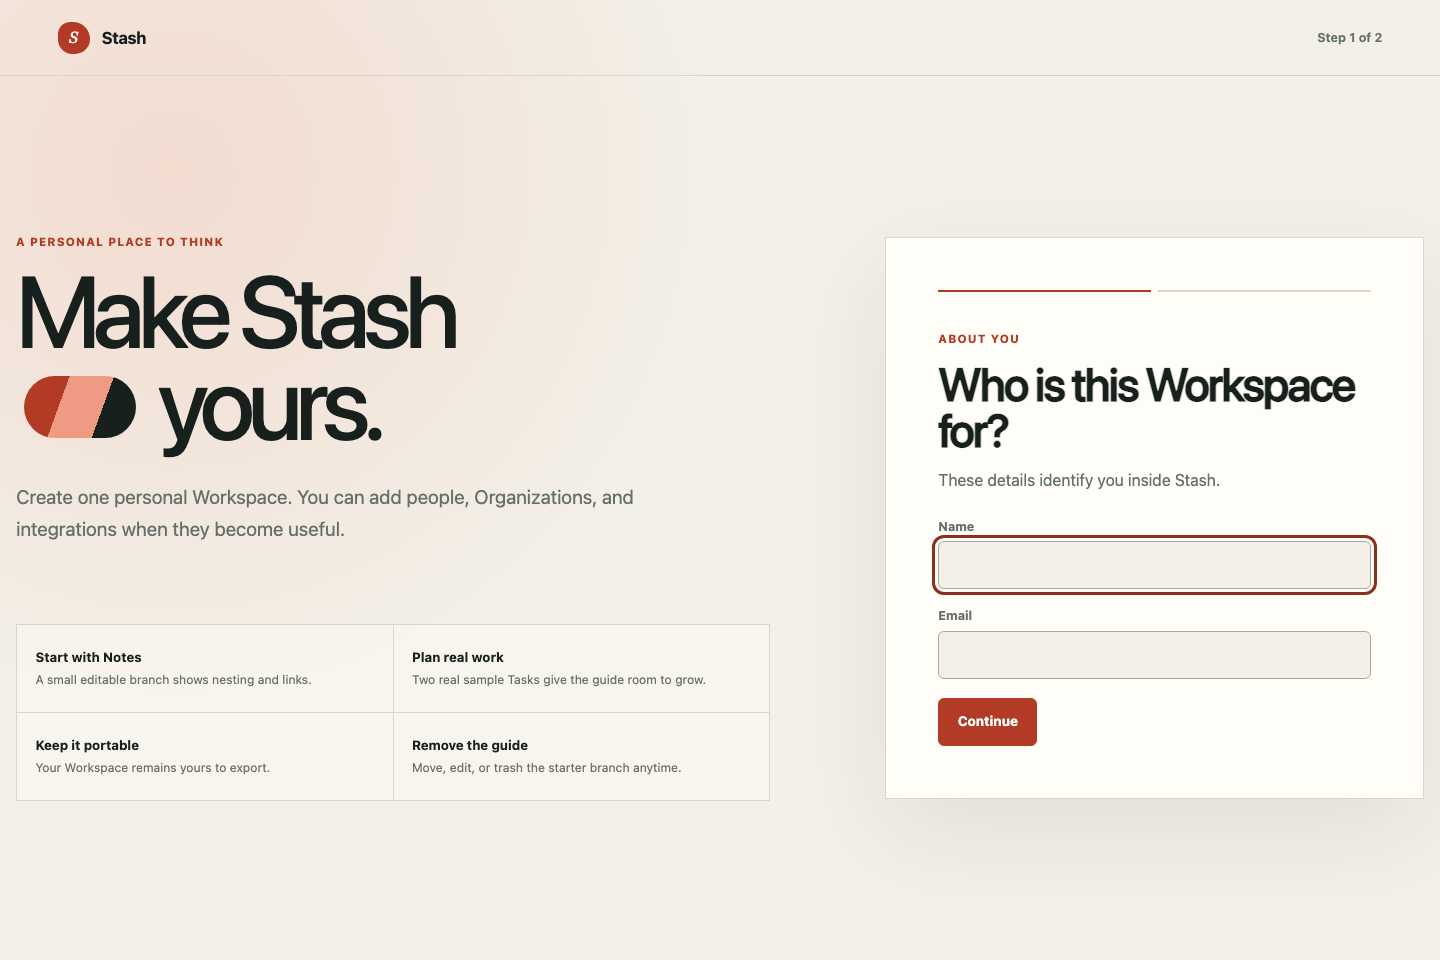
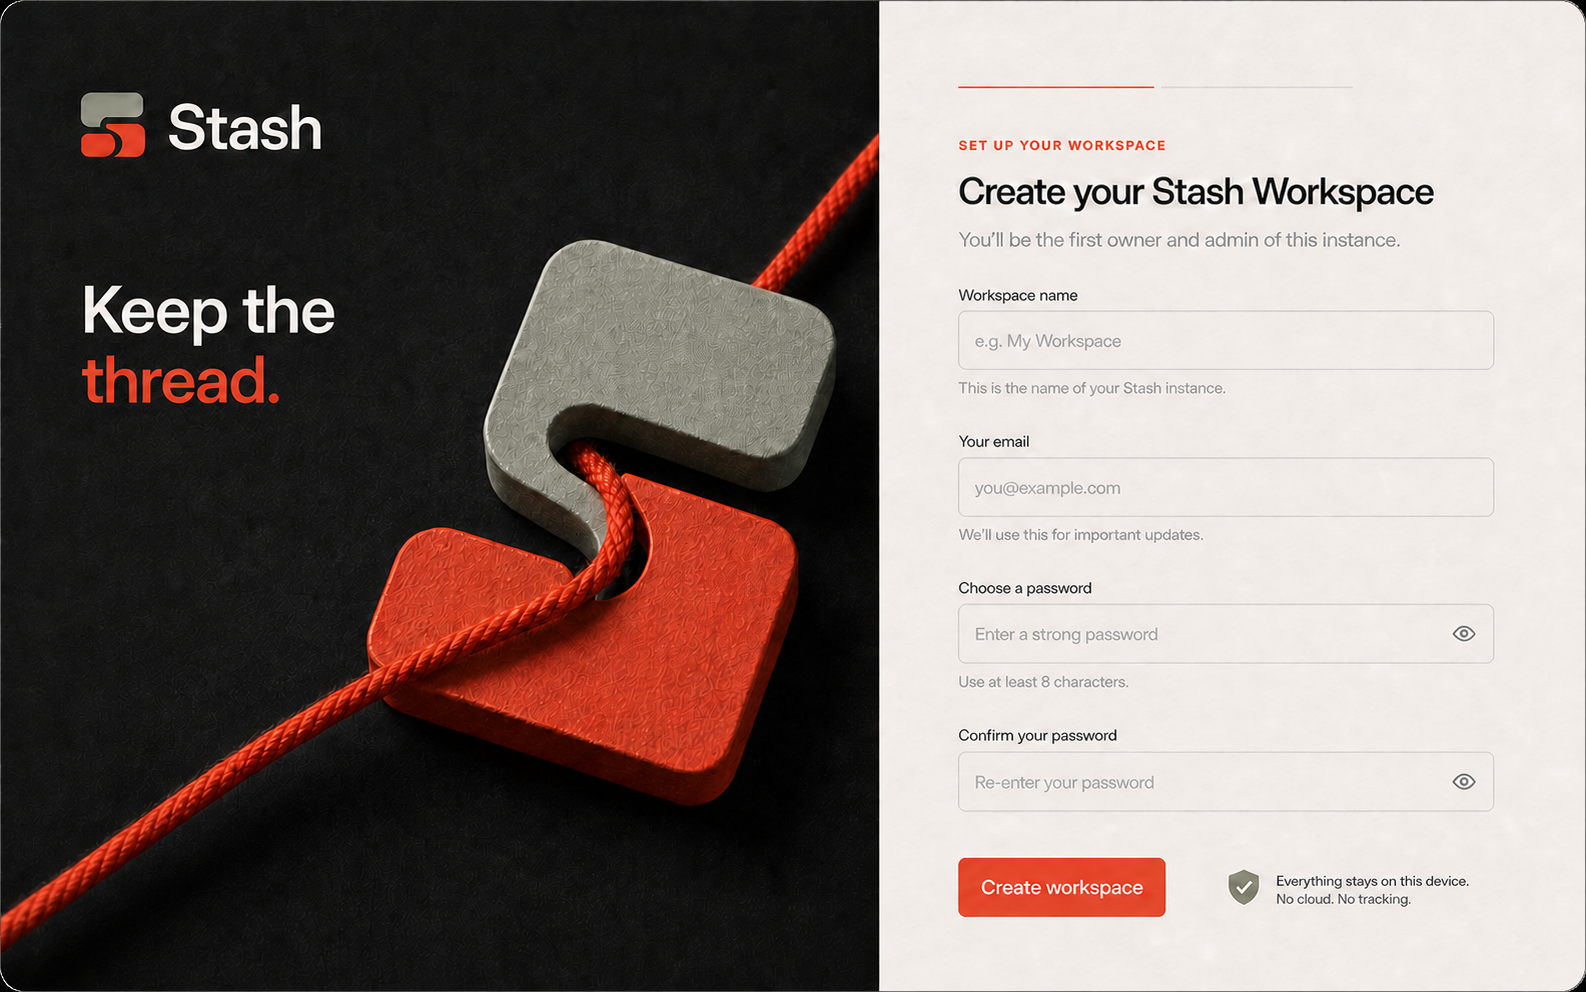
feat(web): redesign first-run setup

diff --git a/apps/web/src/identity-access/setup-page.module.css b/apps/web/src/identity-access/setup-page.module.css
@@ -1,40 +1,60 @@
-.page { min-height: 100dvh; overflow-x: hidden; color: var(--stash-color-ink); background:
-  radial-gradient(circle at 12% 18%, color-mix(in srgb, var(--stash-color-accent-soft) 24%, transparent), transparent 34rem),
-  var(--stash-color-canvas); font-family: var(--stash-font-sans); }
-.navigation { min-height: 4.75rem; display: flex; align-items: center; gap: .75rem; padding: 0 clamp(1.25rem, 4vw, 4rem); border-bottom: 1px solid var(--stash-border-subtle); }
-.navigation > strong { font-size: 1.05rem; letter-spacing: -.025em; }
-.navigation > span:last-child { margin-left: auto; color: var(--stash-color-muted); font-size: .78rem; font-weight: 650; }
-.brandMark { display: grid; width: 2rem; height: 2rem; place-items: center; color: var(--stash-color-accent-contrast); background: var(--stash-color-accent); border-radius: 42% 58% 51% 49%; font-family: Georgia, serif; font-style: italic; }
-.layout { width: min(100% - 2rem, 88rem); min-height: calc(100dvh - 4.75rem); margin: 0 auto; display: grid; grid-template-columns: minmax(0, 1.05fr) minmax(22rem, .75fr); align-items: center; gap: clamp(3rem, 8vw, 9rem); padding: clamp(4rem, 9vw, 9rem) 0; }
-.introduction { align-self: center; }
-.eyebrow, .stepName { margin: 0 0 1rem; color: var(--stash-color-accent); font-size: .72rem; font-weight: 780; letter-spacing: .1em; text-transform: uppercase; }
-.introduction h1 { max-width: 44rem; margin: 0; font: 480 clamp(3.5rem, 7vw, 7rem)/.92 var(--stash-font-display); letter-spacing: -.065em; text-wrap: balance; }
-.inlineImage { width: clamp(3.5rem, 8vw, 7rem); height: .62em; display: inline-block; margin: 0 .08em; overflow: hidden; vertical-align: .02em; border-radius: 999px; background:
-  linear-gradient(110deg, var(--stash-color-accent) 0 34%, var(--stash-color-accent-soft) 34% 67%, var(--stash-color-sidebar) 67%); }
-.lede { max-width: 42rem; margin: 2rem 0 0; color: var(--stash-color-muted); font-size: clamp(1rem, 1.7vw, 1.2rem); line-height: 1.65; }
-.assuranceGrid { margin-top: clamp(3rem, 6vw, 5rem); display: grid; grid-template-columns: repeat(2, minmax(0, 1fr)); grid-template-rows: repeat(2, minmax(5.5rem, auto)); grid-auto-flow: dense; border-top: 1px solid var(--stash-border-subtle); border-left: 1px solid var(--stash-border-subtle); }
-.assurance { min-height: 5.5rem; display: grid; align-content: center; gap: .35rem; padding: 1rem 1.15rem; border-right: 1px solid var(--stash-border-subtle); border-bottom: 1px solid var(--stash-border-subtle); background: color-mix(in srgb, var(--stash-color-surface) 42%, transparent); }
-.assurance strong { font-size: .82rem; }
-.assurance span { color: var(--stash-color-muted); font-size: .76rem; line-height: 1.45; }
-.panel { align-self: center; padding: clamp(1.5rem, 4vw, 3.25rem); background: var(--stash-color-surface); border: 1px solid var(--stash-border-subtle); box-shadow: 0 2rem 6rem rgb(24 32 29 / 8%); }
-.progress { display: grid; grid-template-columns: repeat(2, 1fr); gap: .4rem; margin-bottom: 2.5rem; }
-.progress span { height: 2px; background: var(--stash-border-subtle); }
-.progress .active, .progress .complete { background: var(--stash-color-accent); }
-.form { display: grid; gap: 1.2rem; }
-.form h2 { max-width: 31rem; margin: 0; font: 520 clamp(1.8rem, 3.2vw, 3rem)/1 var(--stash-font-display); letter-spacing: -.045em; }
-.form > div:first-child > p:last-child { margin: .9rem 0 .5rem; color: var(--stash-color-muted); line-height: 1.5; }
-.form label { display: grid; gap: .45rem; color: var(--stash-color-muted); font-size: .78rem; font-weight: 700; }
-.form input { min-height: 3rem; width: 100%; padding: .7rem .8rem; color: var(--stash-color-ink); background: var(--stash-color-canvas); border: 1px solid var(--stash-border-strong); border-radius: var(--stash-radius-sm); font: inherit; font-size: 1rem; font-weight: 480; }
-.form input:focus-visible, .primary:focus-visible, .secondary:focus-visible { outline: 3px solid var(--stash-color-focus); outline-offset: 3px; }
-.form small { color: var(--stash-color-faint); font-size: .72rem; font-weight: 500; }
-.primary, .secondary { min-height: 3rem; display: inline-flex; align-items: center; justify-content: center; padding: .75rem 1.15rem; border-radius: var(--stash-radius-sm); font: 700 .84rem/1 var(--stash-font-sans); cursor: pointer; }
-.primary { justify-self: start; color: var(--stash-color-accent-contrast); background: var(--stash-color-accent); border: 1px solid var(--stash-color-accent); }
-.primary:hover:not(:disabled) { background: var(--stash-color-accent-hover); transform: translateY(-1px); }
-.secondary { color: var(--stash-color-ink); background: transparent; border: 1px solid var(--stash-border-strong); }
-.primary:disabled, .secondary:disabled { cursor: wait; opacity: .58; }
-.actions { display: flex; align-items: center; gap: .7rem; }
-.security, .error { margin: 0; padding: .8rem 1rem; color: var(--stash-color-muted); background: var(--stash-color-canvas); border-left: 2px solid var(--stash-color-accent); font-size: .78rem; line-height: 1.5; }
-.error { color: var(--stash-color-error); border-left-color: var(--stash-color-error); }
-@media (max-width: 850px) { .layout { grid-template-columns: 1fr; gap: 3rem; padding: 3rem 0; } .introduction h1 { font-size: clamp(3rem, 14vw, 5.5rem); } }
-@media (max-width: 520px) { .layout { width: min(100% - 1.5rem, 88rem); } .assuranceGrid { grid-template-columns: 1fr; grid-template-rows: repeat(4, auto); } .panel { padding: 1.25rem; } }
-@media (prefers-reduced-motion: reduce) { .primary { transition: none; } }
+.page { min-height:100dvh; width:100%; overflow-x:hidden; color:var(--stash-color-ink); background:#f7f5ef; font-family:var(--stash-font-sans); }
+.layout { min-height:100dvh; display:grid; grid-template-columns:minmax(30rem,1.08fr) minmax(31rem,.92fr); }
+.introduction { position:relative; min-height:100dvh; overflow:hidden; isolation:isolate; color:#f7f5ef; background:#111210; }
+.introduction::after { content:""; position:absolute; inset:0; z-index:-1; background:linear-gradient(90deg,rgb(8 9 8 / 78%) 0 35%,transparent 68%),linear-gradient(0deg,rgb(8 9 8 / 36%),transparent 55%); }
+.artwork { position:absolute; inset:0; z-index:-2; width:100%; height:100%; object-fit:cover; object-position:center; }
+.brand { position:absolute; top:clamp(2rem,5vw,4.5rem); left:clamp(2rem,6vw,6.5rem); display:flex; align-items:center; gap:.9rem; }
+.brand strong { color:#f7f5ef; font:700 clamp(1.8rem,2.5vw,2.8rem)/1 var(--stash-font-sans); letter-spacing:-.055em; }
+.brandMark { width:3.5rem; height:2.8rem; overflow:visible; }
+.brandMark path:first-child { fill:#b8b9b1; }
+.brandMark path:last-child { fill:var(--stash-color-accent); }
+.introduction h1 { position:absolute; z-index:1; left:clamp(2rem,6vw,6.5rem); top:clamp(12rem,28vh,20rem); max-width:37rem; margin:0; color:#f7f5ef; font:650 clamp(4rem,7vw,7.4rem)/.88 var(--stash-font-display); letter-spacing:-.075em; }
+.introduction h1 span { color:var(--stash-color-accent); }
+.panel { min-height:100dvh; display:grid; align-content:center; width:min(100% - 5rem,38rem); margin-inline:auto; padding:clamp(3rem,7vw,7rem) 0; }
+.mobileBrand { display:none; }
+.progress { display:grid; grid-template-columns:repeat(2,1fr); gap:.55rem; margin:0 0 3rem; }
+.progress span { height:2px; background:#d9d5cd; }
+.progress .active,.progress .complete { background:var(--stash-color-accent); }
+.form { display:grid; gap:1.45rem; }
+.stepName { margin:0 0 1.2rem; color:#b93420; font-size:.72rem; font-weight:800; letter-spacing:.12em; text-transform:uppercase; }
+.form h2 { max-width:35rem; margin:0; font:600 clamp(2.5rem,4.4vw,4.2rem)/.97 var(--stash-font-display); letter-spacing:-.06em; text-wrap:balance; }
+.form > div:first-child > p:last-child { margin:1.1rem 0 .55rem; color:var(--stash-color-muted); font-size:1rem; line-height:1.6; }
+.form label { display:grid; gap:.5rem; color:var(--stash-color-ink); font-size:.82rem; font-weight:700; }
+.form input { min-height:3.5rem; width:100%; padding:.85rem 1rem; color:var(--stash-color-ink); background:rgb(255 255 255 / 44%); border:1px solid #cac6be; border-radius:.45rem; font:500 1rem/1.2 var(--stash-font-sans); transition:border-color .16s ease,box-shadow .16s ease,background .16s ease; }
+.form input:hover { border-color:#a9a49b; background:rgb(255 255 255 / 72%); }
+.form input:focus-visible,.primary:focus-visible,.secondary:focus-visible { outline:3px solid var(--stash-color-focus); outline-offset:3px; }
+.form small { color:var(--stash-color-faint); font-size:.75rem; font-weight:500; line-height:1.45; }
+.primary,.secondary { min-height:3.25rem; display:inline-flex; align-items:center; justify-content:center; padding:.8rem 1.35rem; border-radius:.45rem; font:750 .87rem/1 var(--stash-font-sans); cursor:pointer; transition:transform .16s ease,background .16s ease,border-color .16s ease; }
+.primary { justify-self:start; color:#fff; background:#bd3621; border:1px solid #bd3621; box-shadow:0 .55rem 1.4rem rgb(189 54 33 / 16%); }
+.primary:hover:not(:disabled) { background:#a82f1d; transform:translateY(-1px); }
+.secondary { color:var(--stash-color-ink); background:transparent; border:1px solid #bbb7ae; }
+.secondary:hover:not(:disabled) { border-color:#8e8a82; transform:translateY(-1px); }
+.primary:disabled,.secondary:disabled { cursor:wait; opacity:.58; }
+.actions { display:flex; align-items:center; gap:.75rem; }
+.security,.error { margin:0; padding:.85rem 1rem; color:var(--stash-color-muted); background:rgb(255 255 255 / 44%); border-left:2px solid var(--stash-color-accent); font-size:.78rem; line-height:1.5; }
+.error { color:var(--stash-color-error); border-left-color:var(--stash-color-error); }
+@media (max-width:900px) {
+  .layout { grid-template-columns:1fr; }
+  .introduction { min-height:13rem; }
+  .introduction::after { background:linear-gradient(90deg,rgb(8 9 8 / 74%),rgb(8 9 8 / 12%)); }
+  .artwork { object-position:61% 48%; }
+  .brand { top:max(1.5rem,env(safe-area-inset-top)); left:max(1.5rem,env(safe-area-inset-left)); }
+  .brandMark { width:2.7rem; height:2.2rem; }
+  .brand strong { font-size:1.65rem; }
+  .introduction h1 { left:1.5rem; top:auto; bottom:1.6rem; font-size:clamp(2.8rem,11vw,4.4rem); }
+  .panel { min-height:calc(100dvh - 13rem); width:min(100% - 3rem,38rem); padding:3.5rem 0; }
+}
+@media (max-width:560px) {
+  .introduction { min-height:10.5rem; }
+  .introduction h1 { left:max(1.5rem,env(safe-area-inset-left)); bottom:.85rem; font-size:2.15rem; line-height:.83; }
+  .brand { top:max(.8rem,env(safe-area-inset-top)); transform:none; }
+  .brandMark { width:2rem; height:1.65rem; }
+  .brand strong { font-size:1.3rem; }
+  .panel { min-height:calc(100dvh - 10.5rem); width:min(100% - 2rem,34rem); padding:2.5rem 0 max(2.5rem,env(safe-area-inset-bottom)); align-content:start; }
+  .mobileBrand { display:block; margin-bottom:1rem; color:var(--stash-color-muted); font-size:.76rem; font-weight:700; text-align:right; }
+  .progress { margin-bottom:2.2rem; }
+  .form h2 { font-size:clamp(2.2rem,11vw,3rem); }
+  .actions { align-items:stretch; flex-direction:column-reverse; }
+  .actions .primary,.actions .secondary,.form > .primary { width:100%; justify-self:stretch; }
+}
+@media (prefers-reduced-motion:reduce) { .form input,.primary,.secondary { transition:none; } }

diff --git a/apps/web/src/identity-access/setup-page.tsx b/apps/web/src/identity-access/setup-page.tsx
@@ -42,9 +42,6 @@ export function SetupPage({ state, fetcher = fetch, onComplete = defaultCompleti
     gsap.fromTo(`.${styles.reveal}`, { y: 18 }, {
       y: 0, duration: 0.5, stagger: 0.06, ease: "power2.out", clearProps: "all",
     });
-    gsap.fromTo(`.${styles.assurance}`, { y: 22, scale: 0.985 }, {
-      y: 0, scale: 1, duration: 0.45, stagger: 0.07, ease: "power2.out", clearProps: "all",
-    });
   }, { scope: rootRef, dependencies: [step] });
 
   const createWorkspace = async () => {
@@ -70,32 +67,30 @@ export function SetupPage({ state, fetcher = fetch, onComplete = defaultCompleti
   };
 
   return <main className={styles.page} ref={rootRef}>
-    <nav className={styles.navigation} aria-label="First-run setup">
-      <span className={styles.brandMark} aria-hidden="true">S</span>
-      <strong>Stash</strong>
-      <span>Step {step === "identity" ? "1" : "2"} of 2</span>
-    </nav>
     <div className={styles.layout}>
       <section className={styles.introduction} aria-labelledby="setup-title">
-        <p className={`${styles.eyebrow} ${styles.reveal}`}>A personal place to think</p>
-        <h1 aria-label="Make Stash yours." className={styles.reveal} id="setup-title">Make Stash <span className={styles.inlineImage} aria-hidden="true" /> yours.</h1>
-        <p className={`${styles.lede} ${styles.reveal}`}>Create one personal Workspace. You can add people, Organizations, and integrations when they become useful.</p>
-        <div className={styles.assuranceGrid}>
-          <article className={styles.assurance}><strong>Start with Notes</strong><span>A small editable branch shows nesting and links.</span></article>
-          <article className={styles.assurance}><strong>Plan real work</strong><span>Two real sample Tasks give the guide room to grow.</span></article>
-          <article className={styles.assurance}><strong>Keep it portable</strong><span>Your Workspace remains yours to export.</span></article>
-          <article className={styles.assurance}><strong>Remove the guide</strong><span>Move, edit, or trash the starter branch anytime.</span></article>
+        <div className={`${styles.brand} ${styles.reveal}`}>
+          <svg className={styles.brandMark} viewBox="0 0 64 52" aria-hidden="true">
+            <path d="M14 4h37a9 9 0 0 1 9 9v2a9 9 0 0 1-9 9H25c-4 0-6 2-6 6H4V14A10 10 0 0 1 14 4Z" />
+            <path d="M50 48H13a9 9 0 0 1-9-9v-2a9 9 0 0 1 9-9h26c4 0 6-2 6-6h15v16a10 10 0 0 1-10 10Z" />
+          </svg>
+          <strong>Stash</strong>
         </div>
+        <h1 aria-label="Keep the thread." className={styles.reveal} id="setup-title">Keep the<br /><span>thread.</span></h1>
+        <img className={styles.artwork} src="/assets/setup-thread.png" alt="" />
       </section>
       <section className={styles.panel} aria-labelledby="form-title">
-        <div className={styles.progress} aria-hidden="true"><span className={step === "identity" ? styles.active : styles.complete} /><span className={step === "workspace" ? styles.active : ""} /></div>
+        <div className={styles.mobileBrand}>Step {step === "identity" ? "1" : "2"} of 2</div>
+        <div className={styles.progress} aria-label={`Step ${step === "identity" ? "1" : "2"} of 2`} role="progressbar" aria-valuemin={1} aria-valuemax={2} aria-valuenow={step === "identity" ? 1 : 2}>
+          <span className={step === "identity" ? styles.active : styles.complete} /><span className={step === "workspace" ? styles.active : ""} />
+        </div>
         {step === "identity" ? <form className={styles.form} onSubmit={(event) => { event.preventDefault(); setStep("workspace"); }}>
-          <div className={styles.reveal}><p className={styles.stepName}>About you</p><h2 id="form-title">Who is this Workspace for?</h2><p>These details identify you inside Stash.</p></div>
+          <div className={styles.reveal}><p className={styles.stepName}>Set up your Workspace</p><h2 id="form-title">Make Stash yours</h2><p>You’ll be the first owner and admin of this Instance.</p></div>
           <label className={styles.reveal}>Name<input aria-label="Name" autoComplete="name" autoFocus maxLength={200} required value={name} onChange={(event) => setName(event.target.value)} /></label>
           <label className={styles.reveal}>Email<input aria-label="Email" autoComplete="email" maxLength={320} required type="email" value={email} onChange={(event) => setEmail(event.target.value)} /></label>
           <button className={`${styles.primary} ${styles.reveal}`} type="submit">Continue</button>
         </form> : <form className={styles.form} onSubmit={(event) => { event.preventDefault(); void createWorkspace(); }}>
-          <div className={styles.reveal}><p className={styles.stepName}>Your space</p><h2 id="form-title">Name the place where ideas grow.</h2><p>Use a familiar name. You can change it later.</p></div>
+          <div className={styles.reveal}><p className={styles.stepName}>Set up your Workspace</p><h2 id="form-title">Create your Stash Workspace</h2><p>Name your space and secure the first owner account.</p></div>
           <label className={styles.reveal}>Workspace name<input aria-label="Workspace name" autoComplete="organization" maxLength={200} ref={workspaceNameRef} required value={workspaceName} onChange={(event) => setWorkspaceName(event.target.value)} /></label>
           <label className={styles.reveal}>Password<input aria-label="Password" autoComplete="new-password" minLength={12} required type="password" value={password} onChange={(event) => setPassword(event.target.value)} /><small>Use at least 12 characters.</small></label>
           {state === "code-required" ? <label className={styles.reveal}>Setup code<input aria-label="Setup code" autoCapitalize="characters" autoComplete="one-time-code" required value={setupCode} onChange={(event) => setSetupCode(event.target.value)} /><small>Copy the short-lived code from the Instance startup output.</small></label> : null}

diff --git a/apps/web/src/identity-access/setup-page.test.tsx b/apps/web/src/identity-access/setup-page.test.tsx
@@ -14,7 +14,9 @@ vi.stubGlobal("localStorage", {
 describe("first-run setup", () => {
   it("asks only for identity and Workspace fields on a loopback Instance", async () => {
     render(<SetupPage state="available-local" />);
-    expect(screen.getByRole("heading", { name: "Make Stash yours." })).toBeVisible();
+    expect(screen.getByRole("heading", { name: "Keep the thread." })).toBeVisible();
+    expect(screen.getByText("Stash")).toBeVisible();
+    expect(screen.getByRole("progressbar", { name: "Step 1 of 2" })).toHaveAttribute("aria-valuenow", "1");
     expect(screen.getByLabelText("Name")).toBeVisible();
     expect(screen.getByLabelText("Email")).toBeVisible();
     expect(screen.queryByLabelText("Setup code")).not.toBeInTheDocument();
